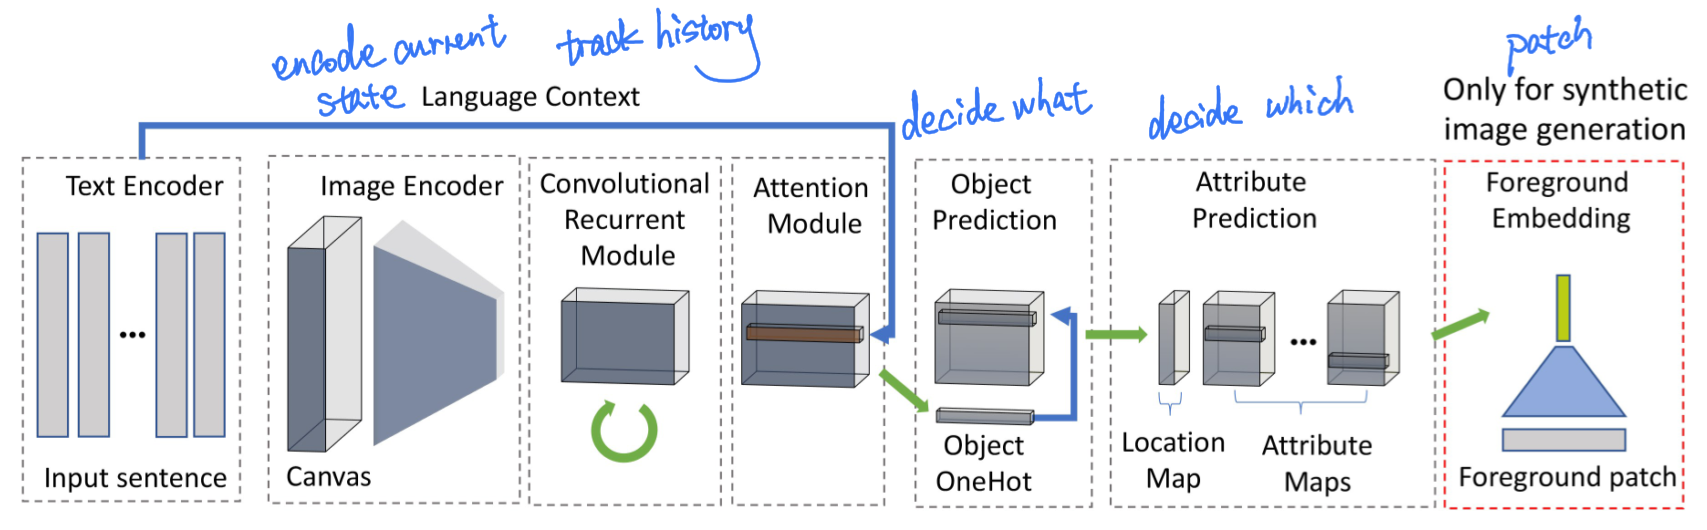
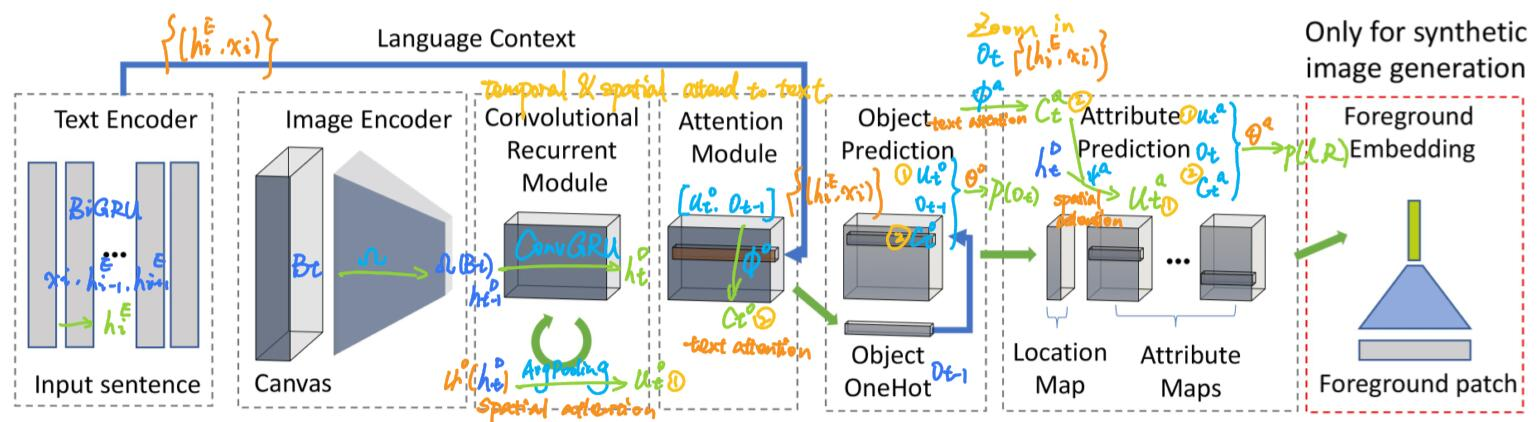
update text_to_scene post

diff --git a/_posts/2019-05-22-Text_to_scene.md b/_posts/2019-05-22-Text_to_scene.md
@@ -1,7 +1,7 @@
 ---
 title: 'Text2Scene: Generating Compositional Scenes from Textual Descriptions'
 date: 2019-05-22
-modified: 2019-05-22
+modified: 2019-05-25
 permalink: /posts/2019/05/text_to_scene/
 tags:
   - paper
@@ -57,7 +57,7 @@ $$
 
 here BIGRU is a bidirectional GRU cell, $ x_{i} $ is a word embedding and $h_{i}^{E}$ is a vector encoding the current word and its context.
 
-### Decoders
+### Image encoder and recurrent module
 
 To use a convolutional network $\Omega$ to encode current canvas ${B}\_{t}$ into a $\mathcal{C} \times H \times W$ feature map representing the current scene state, and to model the history of the scene state $ \left\\{ h_{t}^{D} \right\\} $ by a convolutional GRU. $ h_{t}^{D}$ is an important representation of both temporal and spatial dynamical information.
 
@@ -69,20 +69,85 @@ In case that $h_{t}^{D}$ fails to capture small objects, previous step $ {o}_{t-
 
 ### Attention-based object decoder
 
-The object decoder based on attention mechanism outputs the likelihhod score on all objects in object vocabulary library $\mathcal{V}$, and takes as input the 
+The object decoder based on attention mechanism outputs the likelihhod score on all objects in object vocabulary library $\mathcal{V}$, and takes as input:
+- the current scene state $ \left\\{ h_{t}^{D} \right\\} $
+- the text features $ \left\\{\left(h_{i}^{E}, x_{i}\right)\right\\} $
+- the preiviously predicted object $ o_{t-1} $
+
+> Spatial attention convolutional network
+
+where $\Psi$ is a convolutional network with **spatial attention** on $ \left\\{ h_{t}^{D} \right\\} $ to collect spatial contexts for the object prediction, e.g. what objects have already been added. Then by average pooling layer, the attended features are fused into a vector $u_{t}^{o}$.
 
 $$
 u_{t}^{o}=\text { AvgPooling }\left(\Psi^{o}\left(h_{t}^{D}\right)\right)
 $$
 
+> Text-based attention module
+
+Text-based attention module $\Phi$ uses $u_{t}^{o}$ to attend to the text features $ \left\\{\left(h_{i}^{E}, x_{i}\right)\right\\} $, and encodes the knowledge of all described objects having been added to the scene thus far ideally.
+
 $$
 c_{t}^{o}=\Phi^{o}\left(\left[u_{t}^{o} ; o_{t-1}\right],\left\{\left(h_{i}^{E}, x_{i}\right)\right\}\right)
 $$
+
+> Likelihood predicting perceptrons
+
+$\Theta^{o}$ is two-layers perceptrons to predict *the likelihhod of the next object* $p\left(o_{t}\right)$ using a softmax function.
 
 $$
 p\left(o_{t}\right) \propto \Theta^{o}\left(\left[u_{t}^{o} ; o_{t-1} ; c_{t}^{o}\right]\right)
 $$
 
+
+### Attention-based attribute decoder
+
+For each spatial location in $h_{t}^{D}$, This part predicts both location liikelihood $\left\\{l_{t}^{i}\right\\}\_{i=1 \ldots N}$ and attribute likelihoods $\left\\{R_{t}^{k}\right\\}$ to the object $o_{t}$. Here possible locations are discretized into the same resolution of $h_{t}^{D}$. **TOREAD**
+
+> "Zoom in" module
+
+$\Phi^{a}$ is to zoom in the language context of $o_{t}$ by attending to the input text feature.
+
+$$
+{c_{t}^{a}=\Phi^{a}\left(o_{t},\left\{\left(h_{i}^{E}, x_{i}\right)\right\}\right)}
+$$
+
+> Location prediction convolution network
+
+Compared to $c_{t}^{o}$ which contain information of objects that have not been added yet, $c_{t}^{a}$ focuses more specifically on contents realted to the current object $o_{t}$. 
+
+$$
+{u_{t}^{a}=\Psi^{a}\left(\left[h_{t}^{D} ; c_{t}^{a}\right]\right)}
+$$
+
+Then $\Psi^{a}$, a CNN spatially attending to $h_{t}^{D}$, is to find an affordable location to append $o_{t}$.
+
+> Likelihood predicting convolutional network
+
+$\Theta^{a}$ is implemented by a convolutional network with softmax classifiers over each value of $l_{t}$ and the discrete $R_{t}^{k}$.
+
+$$
+{p\left(l_{t},\left\{R_{t}^{k}\right\}\right)=\Theta^{a}\left(\left[u_{t}^{a} ; o_{t} ; c_{t}^{a}\right]\right)}
+$$
+
+### Foreground patch embedding
+
+For the third mission to generate images composed of patches retrieved from others, a particular $Q_{t}$ is proposed to predict every location in the output feature map but is used at test time to retrieve similar patches from pre-computed collection of object segments from other images **TOREAD**. A patch embedding network using a CNN reduces the foreground patch of target image into a 1D vector $F_{t}$. To minimize the $\ell_{2}$-distance between $Q_{t}$ and $F_{t}$, it uses the triplet embedding loss ($P^\text {color}$, $P^\text {mask}$, $P^\text {context}$) to minimize the distance of $\left\|Q_{t}, F_{t}\right\|\_{2}$ and maximize the distance of $\left\|Q_{t}, F_{k}\right\|\_{2}$. Here $F_{k}$ is the feature of a *negative* patch randonly selected from the same category of $F_{t}$. **TOREAD**
+
+$$
+L_{\text {triplet}}\left(Q_{t}, F_{t}\right)=\max \left\{\left\|Q_{t}, F_{t}\right\|_{2}-\left\|Q_{t}, F_{k}\right\|_{2}+\alpha, 0\right\}
+$$
+
+where $\alpha$ is a margin hyper-parameter.
+
+## Objective
+
+The loss function with reference values $\left(O_{t}, l_{t},\left\\{R_{t}^{k}\right\\}, F_{t}\right)$ is:
+
+$$
+\begin{aligned} L=&-w_{o} \sum_{t} \log p\left(o_{t}\right)-w_{l} \sum_{t} \log p\left(l_{t}\right) -\sum_{k} w_{k} \sum_{t} \log p\left(R_{t}^{k}\right) \\ &+w_{e} \sum_{t} L_{t r i p l e t}\left(Q_{t}, F_{t}\right) +w_{a}^{O} L_{a t t n}^{O}+w_{a}^{A} L_{a t t n}^{A} \end{aligned}
+$$
+
+where $L_{a t t n}^{*}$ are regularization terms inspired by the doubly stochastic attention module propose in section 4.2.1 of [*Show, attend and tell: Neural image caption generation with visual attention*](https://arxiv.org/abs/1502.03044) and $w$ are hyper-parameters controlling the relative contribution of each loss.
 
 ## Conclusion
 
